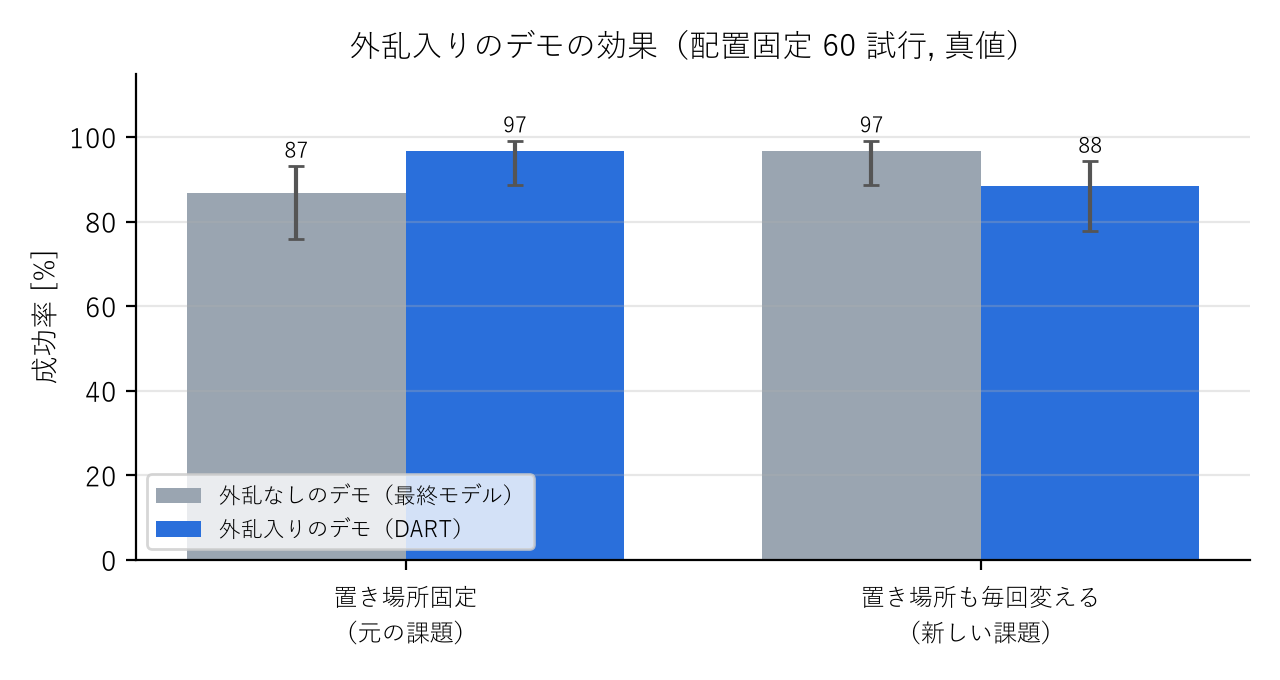
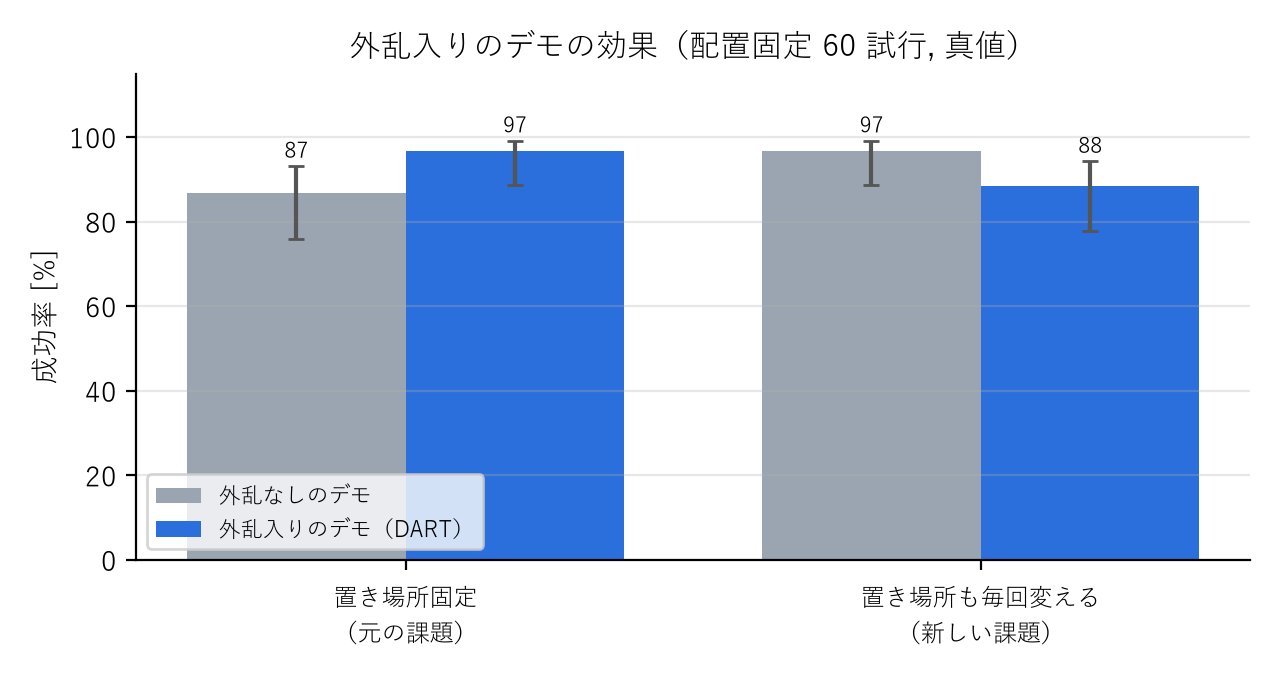
説明資料・README から「最終モデルは変えない」という判断の記述を削除し、結果だけを残す

Changed region(s): [[0.2812, 0.6794, 0.4375, 0.8338]]

diff --git a/docs/report/report.md b/docs/report/report.md
@@ -158,9 +158,9 @@ Gazebo 上のロボットアーム CRANE+ V2 に、**机の上のランダムな
 そこで DART（Laskey et al., 2017）にならい、デモの収録時に**実際に動かす手先の目標にだけ最大 1cm の外乱を加え、学習のラベルには外乱なしの指令を使う**ようにしました。
 外乱は物体へ近づいて下ろす区間だけに入れ、閉じる前に 0 に戻します。同じ本数（343 本）で学習し直すと、置き場所固定では 87% → 97%（58/60）に上がり、
 左側の失敗はほぼ消えました。一方、置き場所を毎回変える課題では 97% → 88%（53/60）に下がり、正面の奥寄りで失敗が増えました（図12）。
-合計は 110/120 と 111/120 で変わらず、どちらの差も有意ではありません。失敗する場所が移っただけなので、最終モデルは外乱なしのデモのモデルのままとしました。
+合計は 110/120 と 111/120 で変わらず、どちらの差も有意ではありません。失敗する場所が移っただけで、掴む精度の余裕は増えませんでした。
 
-<figure><img src="img/fig_dart.png" class="w70"><figcaption>図12 外乱入りのデモの効果（灰: 外乱なしのデモ＝最終モデル、青: 外乱入りのデモ。物体と置き場所の組を固定した 60 か所）</figcaption></figure>
+<figure><img src="img/fig_dart.png" class="w70"><figcaption>図12 外乱入りのデモの効果（灰: 外乱なしのデモ＝図10・11 の新しいモデル、青: 外乱入りのデモ。物体と置き場所の組を固定した 60 か所）</figcaption></figure>
 
 ## 5. 課題と今後
 
@@ -175,4 +175,4 @@ Gazebo 上のロボットアーム CRANE+ V2 に、**机の上のランダムな
   腕は指令に遅れて追従し（関節の追従誤差もあり）、目標に着く前にグリッパを閉じ始める動きをデモから学んでいることも影響しています。
   デモを倍にしても、外乱入りのデモ（DART）にしても、失敗する場所が移るだけでした。掴む直前に止まって位置を合わせる動きをデモに入れる、
   関節の追従を改善する、行動を物体から見た手先の位置で表す、などが次の候補です。
-  また、置き場所固定の元の課題では、置き場所を観測する最終モデルの成功率が 87%（52/60）と、元のモデルの 100% より下がっています。
+  また、置き場所固定の元の課題では、置き場所を観測するモデルの成功率が 87%（52/60）と、元のモデルの 100% より下がっています。

diff --git a/docs/work_log/20261014.md b/docs/work_log/20261014.md
@@ -31,6 +31,8 @@
 - 説明資料（ユーザー決定「数値と DART を足す」）: 4.10 節の置き場所固定の成功率を 93% → 87%（52/60、別の 30 か所を追加）に直し、
   外乱入りのデモ（DART）の段落と図12（`fig_dart.png`）を追加。5 章の「掴む精度に余裕がない」も更新。PDF は 7 ページのまま
 - README の追加実験の表に 52/60 と DART の結果を追記
+- ユーザー指摘: 提出物はモデルではないので「最終モデルは外乱なしのまま」という判断の記述は不要 → 説明資料・README から削除し、
+  「失敗する場所が移っただけで、掴む精度の余裕は増えなかった」という結果だけを残した。図12 の凡例も「外乱なしのデモ」に変更
 
 ## 次にやること
 （凡例: [x] 完了 / [~] 一部完了 / [ ] 未着手）
